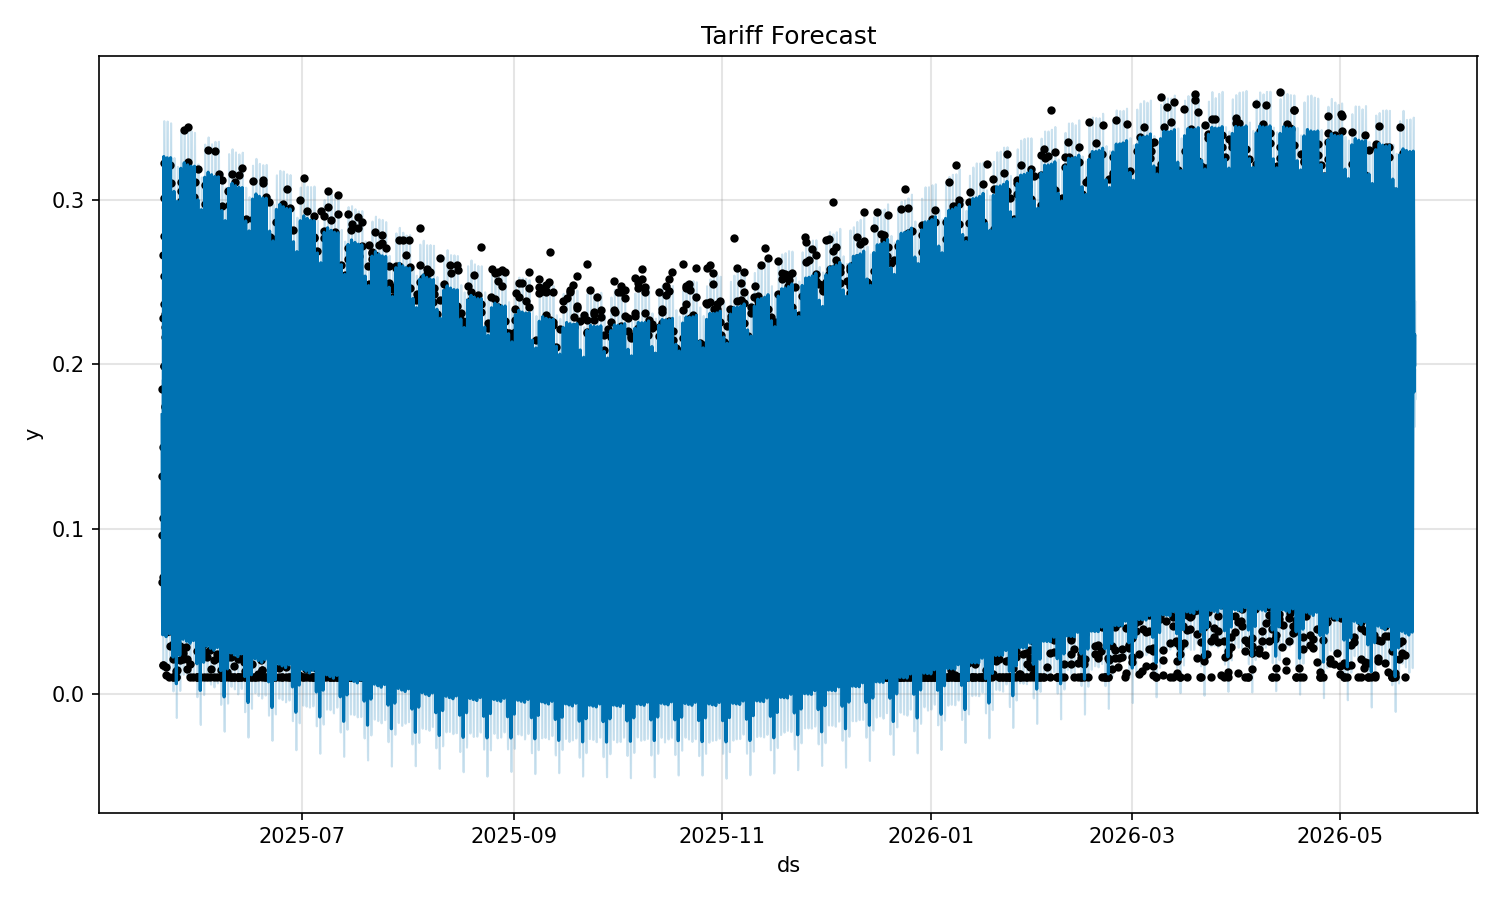
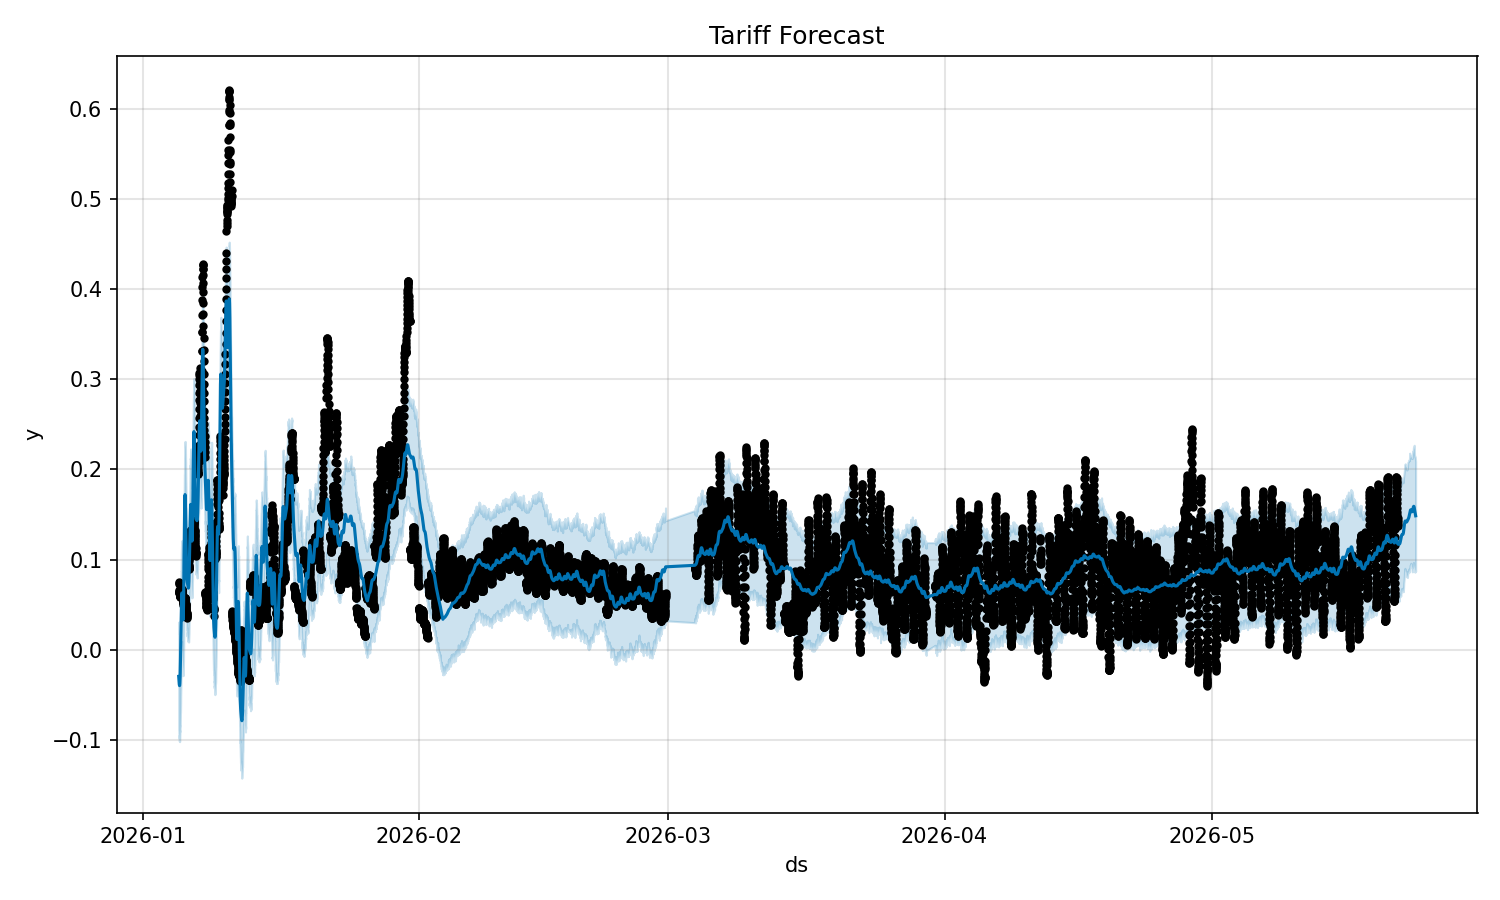
craeted prophet benchamrks with api

diff --git a/t.html b/t.html
@@ -1,0 +1,251 @@
+<!doctype html>
+<html lang="en">
+<head>
+  <meta charset="utf-8">
+  <meta name="viewport" content="width=device-width, initial-scale=1">
+  <title>Repository Experiments vs Prophet Benchmark</title>
+  <style>
+    :root {
+      --bg: #f6f3ee;
+      --ink: #18201d;
+      --muted: #64706b;
+      --line: #d8d0c4;
+      --panel: #fffdf8;
+      --accent: #0f766e;
+      --accent-2: #b45309;
+      --accent-3: #9f1239;
+      --shadow: 0 18px 45px rgba(24, 32, 29, 0.08);
+    }
+    * {
+      box-sizing: border-box;
+    }
+    body {
+      margin: 0;
+      background: var(--bg);
+      color: var(--ink);
+      font-family: "Aptos", "Segoe UI", Tahoma, sans-serif;
+      line-height: 1.5;
+    }
+    .wrap {
+      width: min(1180px, calc(100% - 32px));
+      margin: 0 auto;
+    }
+    header {
+      border-bottom: 1px solid var(--line);
+      background: linear-gradient(120deg, #fffdf8 0%, #edf4ef 54%, #f7eadb 100%);
+      padding: 42px 0 30px;
+    }
+    .eyebrow {
+      margin: 0 0 10px;
+      color: var(--accent);
+      font-size: 13px;
+      font-weight: 700;
+      letter-spacing: 0.08em;
+      text-transform: uppercase;
+    }
+    h1 {
+      margin: 0;
+      font-size: clamp(32px, 5vw, 54px);
+      line-height: 1.04;
+    }
+    .subtitle {
+      max-width: 920px;
+      margin: 14px 0 0;
+      color: var(--muted);
+      font-size: 17px;
+    }
+    main {
+      padding: 26px 0 56px;
+    }
+    .panel {
+      background: var(--panel);
+      border: 1px solid var(--line);
+      border-radius: 10px;
+      padding: 18px;
+      margin-top: 18px;
+      box-shadow: var(--shadow);
+    }
+    .stats {
+      display: grid;
+      gap: 14px;
+      grid-template-columns: repeat(3, minmax(0, 1fr));
+    }
+    .k {
+      font-size: 12px;
+      color: var(--muted);
+      letter-spacing: .05em;
+      text-transform: uppercase;
+      margin: 0 0 7px;
+      font-weight: 700;
+    }
+    .v {
+      margin: 0;
+      font-size: 26px;
+      font-weight: 800;
+      line-height: 1.1;
+    }
+    .n {
+      margin: 7px 0 0;
+      color: var(--muted);
+      font-size: 13px;
+    }
+    .bar-row {
+      display: grid;
+      grid-template-columns: 290px 1fr 92px;
+      gap: 12px;
+      align-items: center;
+      margin: 10px 0;
+      font-size: 14px;
+    }
+    .bar-bg {
+      height: 13px;
+      border-radius: 999px;
+      background: #e4ded4;
+      overflow: hidden;
+    }
+    .bar {
+      height: 100%;
+      border-radius: inherit;
+    }
+    .bar.exp {
+      background: var(--accent);
+    }
+    .bar.prophet {
+      background: var(--accent-2);
+    }
+    .chart-note {
+      margin: 10px 0 0;
+      color: var(--muted);
+      font-size: 13px;
+    }
+    .note {
+      border-left: 4px solid var(--accent-3);
+      background: #fff8ec;
+      padding: 14px 16px;
+      color: #43362b;
+      border-radius: 6px;
+    }
+    table {
+      width: 100%;
+      border-collapse: collapse;
+      background: var(--panel);
+      border: 1px solid var(--line);
+      border-radius: 8px;
+      overflow: hidden;
+      margin-top: 14px;
+    }
+    th, td {
+      padding: 10px 12px;
+      border-bottom: 1px solid var(--line);
+      text-align: left;
+      font-size: 14px;
+    }
+    th {
+      background: #ebe5da;
+      font-size: 12px;
+      text-transform: uppercase;
+      letter-spacing: 0.04em;
+    }
+    tr:last-child td {
+      border-bottom: 0;
+    }
+    .num {
+      text-align: right;
+      font-variant-numeric: tabular-nums;
+    }
+    img {
+      width: 100%;
+      height: auto;
+      border: 1px solid var(--line);
+      border-radius: 8px;
+      background: #fff;
+    }
+    @media (max-width: 900px) {
+      .stats {
+        grid-template-columns: 1fr;
+      }
+      .bar-row {
+        grid-template-columns: 1fr;
+        gap: 6px;
+      }
+      .num {
+        text-align: left;
+      }
+    }
+  </style>
+</head>
+<body>
+  <header>
+    <div class="wrap">
+      <p class="eyebrow">Experiment Comparison</p>
+      <h1>Repository Experiments vs Prophet Benchmark</h1>
+      <p class="subtitle">
+        Full comparison across all tracked Experiment 1 runs (1a/1b/1c/1d) and Prophet benchmark variants.
+      </p>
+    </div>
+  </header>
+  <main class="wrap">
+    <section class="stats">
+      <article class="panel">
+        <p class="k">Total Compared Runs</p>
+        <p class="v">14</p>
+        <p class="n">12 Exp.1 runs + 2 Prophet runs</p>
+      </article>
+      <article class="panel">
+        <p class="k">Experiment Families</p>
+        <p class="v">1a, 1b, 1c, 1d</p>
+        <p class="n">Each with norm, wavelet, patch preprocessing</p>
+      </article>
+      <article class="panel">
+        <p class="k">Prophet Variants</p>
+        <p class="v">held-out + CV</p>
+        <p class="n">Coverage is reported for both Prophet variants</p>
+      </article>
+    </section>
+
+    <section class="panel">
+      <h2 style="margin:0 0 10px;">All-Run Comparison Figure</h2>
+      <img src="./assets/prophet_vs_repo_comparison.svg" alt="Repository experiments versus Prophet benchmark chart">
+      <p class="chart-note">Left side uses log scale so Prophet and Exp.1 can appear together; right side keeps Exp.1-only linear ranking.</p>
+    </section>
+
+    <section class="panel">
+      <h2 style="margin:0 0 10px;">MAE Comparison Across All Runs</h2>
+      <div class="bar-row"><span>Exp.1.a CNN-BiLSTM + norm</span><div class="bar-bg"><div class="bar exp" style="width: 74.37%"></div></div><strong>29.649900</strong></div><div class="bar-row"><span>Exp.1.a CNN-BiLSTM + wavelet</span><div class="bar-bg"><div class="bar exp" style="width: 70.98%"></div></div><strong>28.296600</strong></div><div class="bar-row"><span>Exp.1.a CNN-BiLSTM + patch</span><div class="bar-bg"><div class="bar exp" style="width: 78.32%"></div></div><strong>31.223300</strong></div><div class="bar-row"><span>Exp.1.b CNN-xLSTM + norm</span><div class="bar-bg"><div class="bar exp" style="width: 66.56%"></div></div><strong>26.534500</strong></div><div class="bar-row"><span>Exp.1.b CNN-xLSTM + wavelet</span><div class="bar-bg"><div class="bar exp" style="width: 68.03%"></div></div><strong>27.121100</strong></div><div class="bar-row"><span>Exp.1.b CNN-xLSTM + patch</span><div class="bar-bg"><div class="bar exp" style="width: 72.33%"></div></div><strong>28.834100</strong></div><div class="bar-row"><span>Exp.1.c CNN-BiLSTM-Transformer + norm</span><div class="bar-bg"><div class="bar exp" style="width: 94.57%"></div></div><strong>37.699800</strong></div><div class="bar-row"><span>Exp.1.c CNN-BiLSTM-Transformer + patch</span><div class="bar-bg"><div class="bar exp" style="width: 80.91%"></div></div><strong>32.255700</strong></div><div class="bar-row"><span>Exp.1.c CNN-BiLSTM-Transformer + wavelet</span><div class="bar-bg"><div class="bar exp" style="width: 100.00%"></div></div><strong>39.866100</strong></div><div class="bar-row"><span>Exp.1.d CNN-Transformer + norm</span><div class="bar-bg"><div class="bar exp" style="width: 66.54%"></div></div><strong>26.526200</strong></div><div class="bar-row"><span>Exp.1.d CNN-Transformer + patch</span><div class="bar-bg"><div class="bar exp" style="width: 74.42%"></div></div><strong>29.666800</strong></div><div class="bar-row"><span>Exp.1.d CNN-Transformer + wavelet</span><div class="bar-bg"><div class="bar exp" style="width: 69.64%"></div></div><strong>27.764600</strong></div><div class="bar-row"><span>Prophet + held_out_48h</span><div class="bar-bg"><div class="bar prophet" style="width: 4.00%"></div></div><strong>0.012084</strong></div><div class="bar-row"><span>Prophet + cross_validation</span><div class="bar-bg"><div class="bar prophet" style="width: 4.00%"></div></div><strong>0.012897</strong></div>
+      <p class="chart-note">Bar width is relative within this panel; lower MAE is better.</p>
+    </section>
+
+    <section class="panel">
+      <h2 style="margin:0 0 10px;">RMSE Comparison Across All Runs</h2>
+      <div class="bar-row"><span>Exp.1.a CNN-BiLSTM + norm</span><div class="bar-bg"><div class="bar exp" style="width: 77.60%"></div></div><strong>41.248600</strong></div><div class="bar-row"><span>Exp.1.a CNN-BiLSTM + wavelet</span><div class="bar-bg"><div class="bar exp" style="width: 73.96%"></div></div><strong>39.312600</strong></div><div class="bar-row"><span>Exp.1.a CNN-BiLSTM + patch</span><div class="bar-bg"><div class="bar exp" style="width: 80.29%"></div></div><strong>42.675000</strong></div><div class="bar-row"><span>Exp.1.b CNN-xLSTM + norm</span><div class="bar-bg"><div class="bar exp" style="width: 74.05%"></div></div><strong>39.358000</strong></div><div class="bar-row"><span>Exp.1.b CNN-xLSTM + wavelet</span><div class="bar-bg"><div class="bar exp" style="width: 73.95%"></div></div><strong>39.305300</strong></div><div class="bar-row"><span>Exp.1.b CNN-xLSTM + patch</span><div class="bar-bg"><div class="bar exp" style="width: 76.41%"></div></div><strong>40.615300</strong></div><div class="bar-row"><span>Exp.1.c CNN-BiLSTM-Transformer + norm</span><div class="bar-bg"><div class="bar exp" style="width: 95.63%"></div></div><strong>50.829400</strong></div><div class="bar-row"><span>Exp.1.c CNN-BiLSTM-Transformer + patch</span><div class="bar-bg"><div class="bar exp" style="width: 84.50%"></div></div><strong>44.912800</strong></div><div class="bar-row"><span>Exp.1.c CNN-BiLSTM-Transformer + wavelet</span><div class="bar-bg"><div class="bar exp" style="width: 100.00%"></div></div><strong>53.152100</strong></div><div class="bar-row"><span>Exp.1.d CNN-Transformer + norm</span><div class="bar-bg"><div class="bar exp" style="width: 72.03%"></div></div><strong>38.286900</strong></div><div class="bar-row"><span>Exp.1.d CNN-Transformer + patch</span><div class="bar-bg"><div class="bar exp" style="width: 77.07%"></div></div><strong>40.962900</strong></div><div class="bar-row"><span>Exp.1.d CNN-Transformer + wavelet</span><div class="bar-bg"><div class="bar exp" style="width: 73.96%"></div></div><strong>39.310700</strong></div><div class="bar-row"><span>Prophet + held_out_48h</span><div class="bar-bg"><div class="bar prophet" style="width: 4.00%"></div></div><strong>0.016177</strong></div><div class="bar-row"><span>Prophet + cross_validation</span><div class="bar-bg"><div class="bar prophet" style="width: 4.00%"></div></div><strong>0.016208</strong></div>
+      <p class="chart-note">Bar width is relative within this panel; lower RMSE is better.</p>
+    </section>
+
+    <section class="panel">
+      <div class="note">
+        Prophet metrics are computed on synthetic `prophet/mock_tariff.csv` while Exp.1 metrics come from electricity-price snapshots.
+        Use this as a repository-level status comparison, not a strict apples-to-apples benchmark.
+      </div>
+    </section>
+
+    <section class="panel">
+      <h2 style="margin:0 0 10px;">Metrics Table</h2>
+      <table>
+        <thead>
+          <tr>
+            <th>Model</th>
+            <th>Run</th>
+            <th class="num">MAE</th>
+            <th class="num">RMSE</th>
+            <th class="num">MAPE</th>
+            <th class="num">Coverage %</th>
+          </tr>
+        </thead>
+        <tbody>
+          <tr><td>Exp.1.a CNN-BiLSTM</td><td>norm</td><td class="num">29.649900</td><td class="num">41.248600</td><td class="num">4114.6316</td><td class="num">-</td></tr><tr><td>Exp.1.a CNN-BiLSTM</td><td>wavelet</td><td class="num">28.296600</td><td class="num">39.312600</td><td class="num">3141.0965</td><td class="num">-</td></tr><tr><td>Exp.1.a CNN-BiLSTM</td><td>patch</td><td class="num">31.223300</td><td class="num">42.675000</td><td class="num">4408.1151</td><td class="num">-</td></tr><tr><td>Exp.1.b CNN-xLSTM</td><td>norm</td><td class="num">26.534500</td><td class="num">39.358000</td><td class="num">4172.5943</td><td class="num">-</td></tr><tr><td>Exp.1.b CNN-xLSTM</td><td>wavelet</td><td class="num">27.121100</td><td class="num">39.305300</td><td class="num">3918.8283</td><td class="num">-</td></tr><tr><td>Exp.1.b CNN-xLSTM</td><td>patch</td><td class="num">28.834100</td><td class="num">40.615300</td><td class="num">4161.9200</td><td class="num">-</td></tr><tr><td>Exp.1.c CNN-BiLSTM-Transformer</td><td>norm</td><td class="num">37.699800</td><td class="num">50.829400</td><td class="num">4801.9512</td><td class="num">-</td></tr><tr><td>Exp.1.c CNN-BiLSTM-Transformer</td><td>patch</td><td class="num">32.255700</td><td class="num">44.912800</td><td class="num">4724.6062</td><td class="num">-</td></tr><tr><td>Exp.1.c CNN-BiLSTM-Transformer</td><td>wavelet</td><td class="num">39.866100</td><td class="num">53.152100</td><td class="num">4896.0546</td><td class="num">-</td></tr><tr><td>Exp.1.d CNN-Transformer</td><td>norm</td><td class="num">26.526200</td><td class="num">38.286900</td><td class="num">3093.2507</td><td class="num">-</td></tr><tr><td>Exp.1.d CNN-Transformer</td><td>patch</td><td class="num">29.666800</td><td class="num">40.962900</td><td class="num">3596.5461</td><td class="num">-</td></tr><tr><td>Exp.1.d CNN-Transformer</td><td>wavelet</td><td class="num">27.764600</td><td class="num">39.310700</td><td class="num">3560.1780</td><td class="num">-</td></tr><tr><td>Prophet</td><td>held_out_48h</td><td class="num">0.012084</td><td class="num">0.016177</td><td class="num">15.1307</td><td class="num">79.17</td></tr><tr><td>Prophet</td><td>cross_validation</td><td class="num">0.012897</td><td class="num">0.016208</td><td class="num">20.3367</td><td class="num">79.96</td></tr>
+        </tbody>
+      </table>
+    </section>
+  </main>
+</body>
+</html>

diff --git a/prophet/benchmark.py b/prophet/benchmark.py
@@ -39,13 +39,20 @@ def compute_metrics(actual: pd.Series, predicted: pd.Series,
 
 
 def run_benchmark(df: pd.DataFrame) -> dict:
-    train = df.iloc[:-FORECAST_HOURS]
-    test = df.iloc[-FORECAST_HOURS:]
+    df = df.sort_values("ds").reset_index(drop=True)
+
+    # Detect frequency from data
+    freq = pd.infer_freq(df["ds"].head(20)) or "15min"
+    periods_per_hour = pd.tseries.frequencies.to_offset("1h") / pd.tseries.frequencies.to_offset(freq)
+    forecast_periods = int(FORECAST_HOURS * periods_per_hour)
+
+    train = df.iloc[:-forecast_periods]
+    test = df.iloc[-forecast_periods:]
 
     model = build_model()
     model.fit(train)
 
-    future = model.make_future_dataframe(periods=FORECAST_HOURS, freq="h")
+    future = model.make_future_dataframe(periods=forecast_periods, freq=freq)
     forecast = model.predict(future)
     forecast_test = forecast.set_index("ds").loc[test["ds"].values]
 
@@ -56,8 +63,12 @@ def run_benchmark(df: pd.DataFrame) -> dict:
         forecast_test["yhat_upper"].values,
     )
 
+    total_days = (df["ds"].max() - df["ds"].min()).days
+    initial_days = max(int(total_days * 0.6), FORECAST_HOURS // 24 + 1)
+    period_days = max(int(total_days * 0.1), 1)
+
     print("Running cross-validation (this may take a minute)...")
-    cv = cross_validation(model, initial="180 days", period="30 days", horizon="48 hours")
+    cv = cross_validation(model, initial=f"{initial_days} days", period=f"{period_days} days", horizon=f"{FORECAST_HOURS} hours")
     pm = performance_metrics(cv)
     cv_metrics = {
         "MAE": round(float(pm["mae"].mean()), 6),
@@ -118,17 +129,23 @@ def print_summary(results: dict):
 
 
 if __name__ == "__main__":
-    csv_path = "prophet/mock_tariff.csv"
-    if len(sys.argv) > 1:
-        csv_path = sys.argv[1]
+    if "--api" in sys.argv:
+        from model import load_data_from_api
+        print("Loading data from API...")
+        df = load_data_from_api()
+        print(f"Loaded {len(df)} rows from API")
+    else:
+        csv_path = "prophet/mock_tariff.csv"
+        if len(sys.argv) > 1 and not sys.argv[1].startswith("--"):
+            csv_path = sys.argv[1]
 
-    if not os.path.exists(csv_path):
-        print(f"No data at {csv_path}. Generate mock data first:")
-        print("  python prophet/mock_data.py")
-        sys.exit(1)
+        if not os.path.exists(csv_path):
+            print(f"No data at {csv_path}. Generate mock data first:")
+            print("  python prophet/mock_data.py")
+            sys.exit(1)
 
-    df = load_data(csv_path)
-    print(f"Loaded {len(df)} rows from {csv_path}")
+        df = load_data(csv_path)
+        print(f"Loaded {len(df)} rows from {csv_path}")
 
     results = run_benchmark(df)
     print_summary(results)
